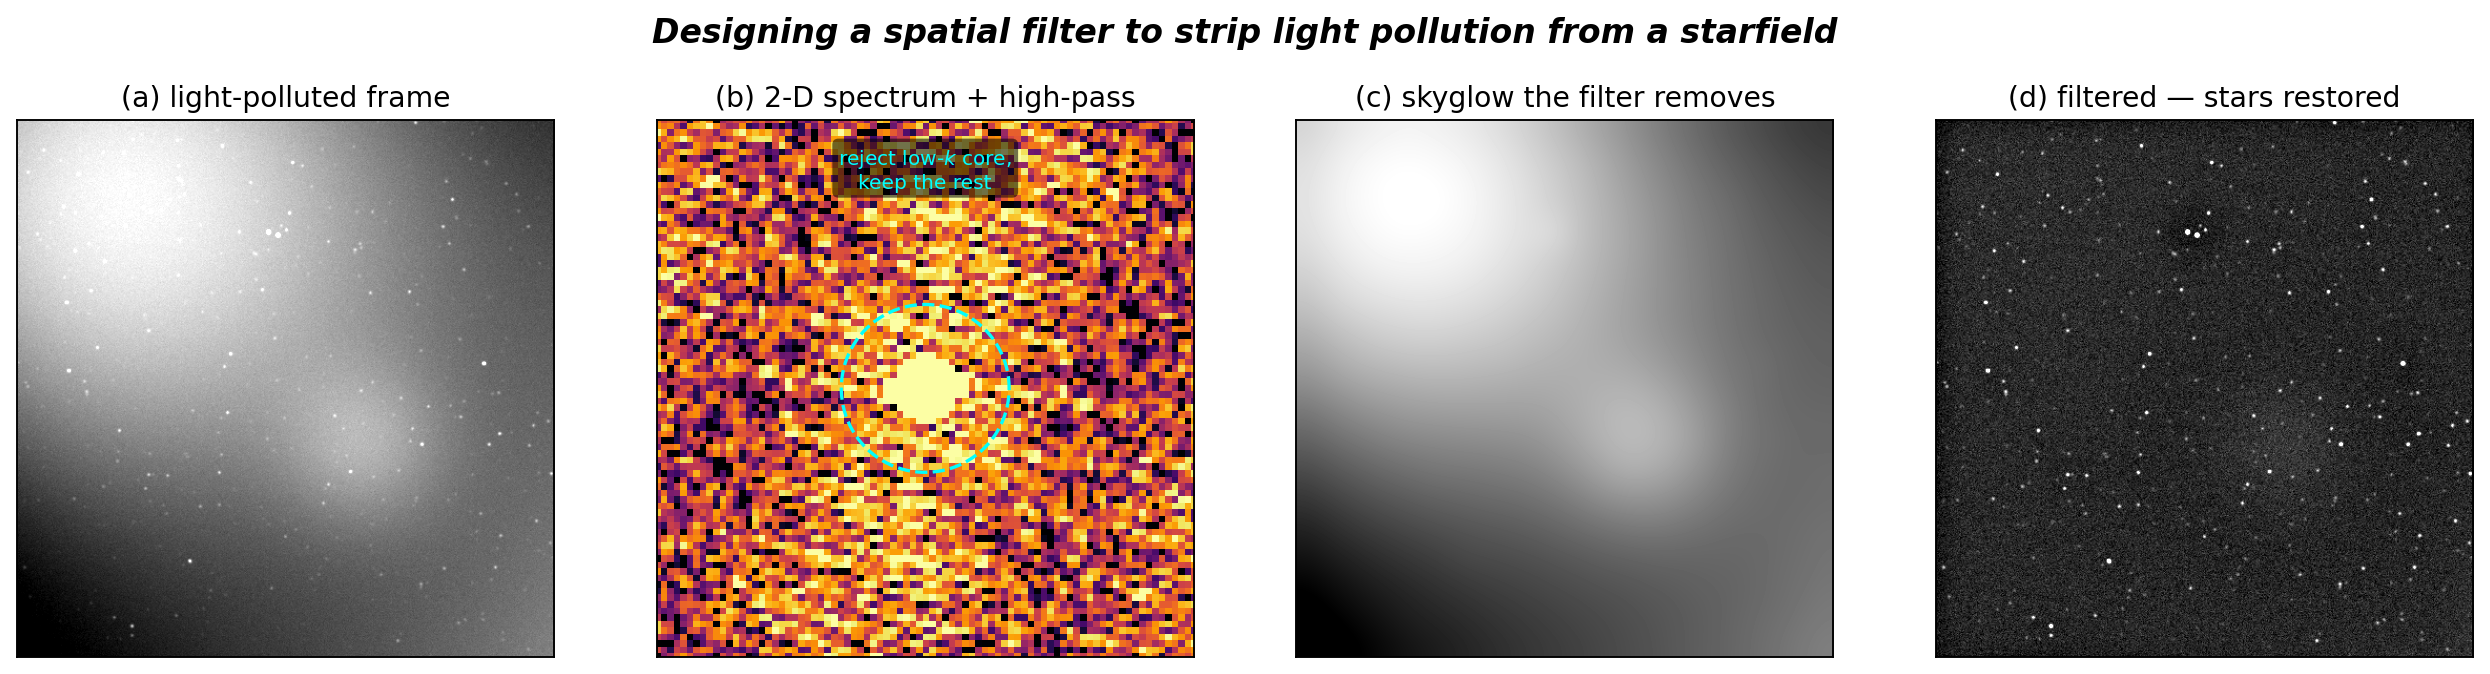
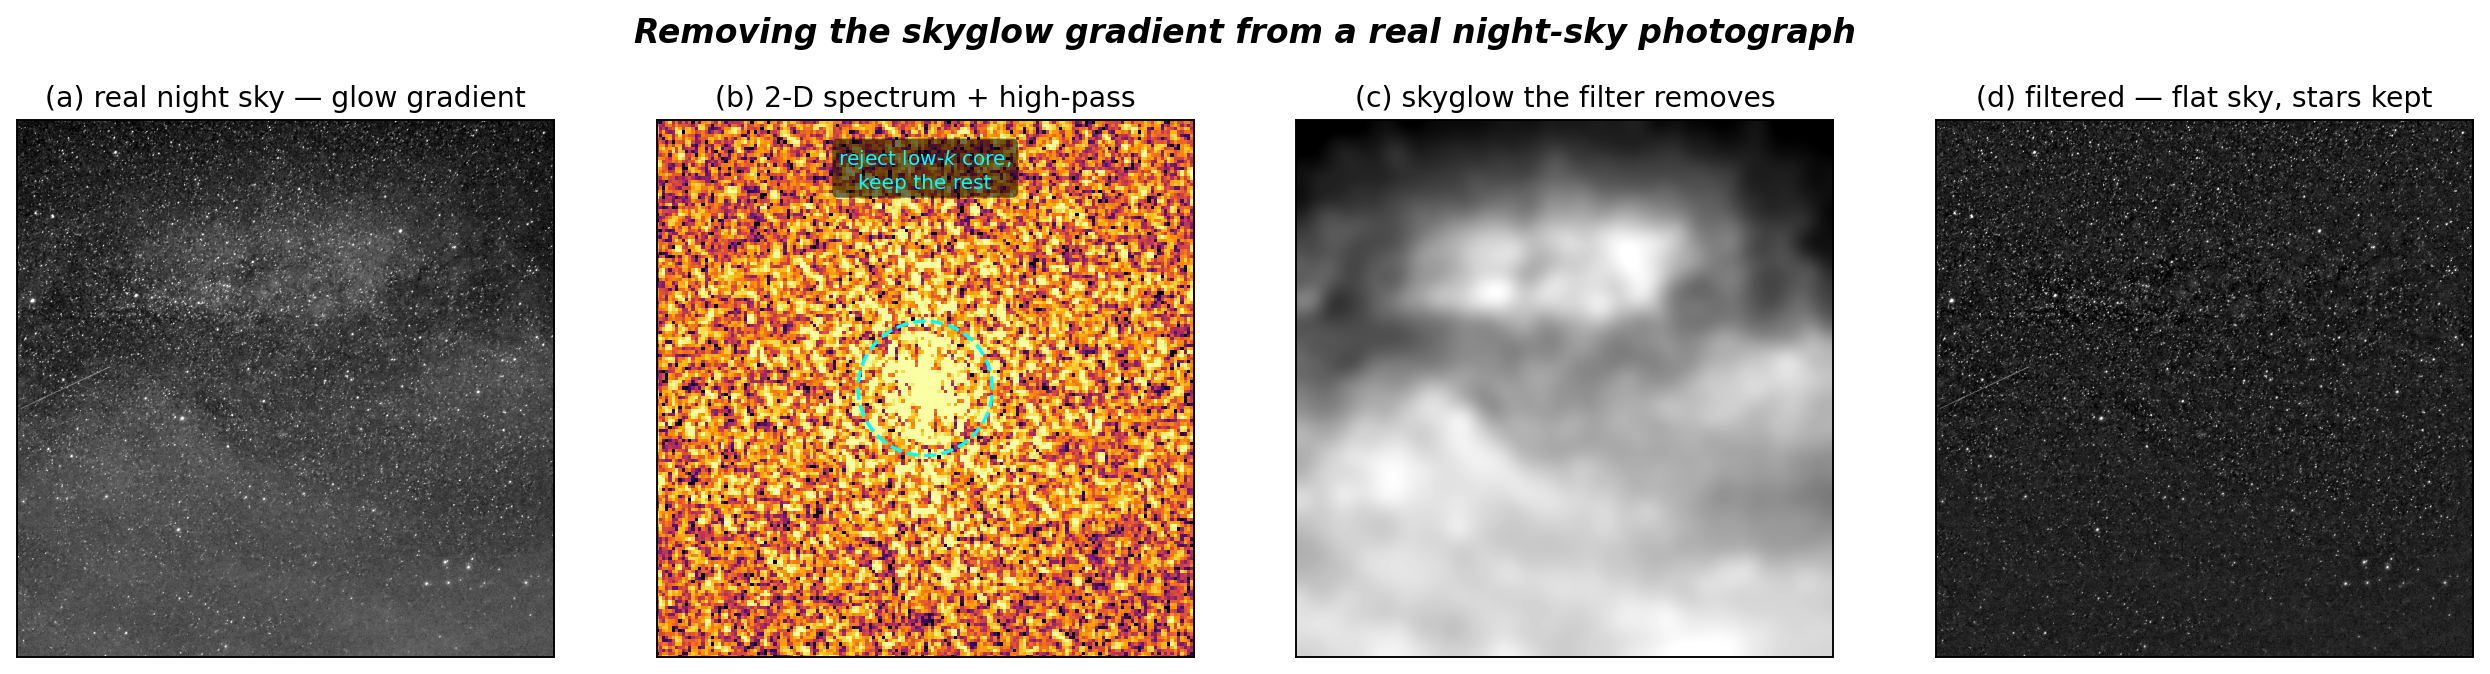
light pollution: switch to a real night-sky photograph
- Data is now "Night Sky Over the Maple Trees" (Mmfgh, Wikimedia
  Commons, CC BY 4.0), a real wide-field exposure over the Vermont
  Appalachians with a genuine horizon-glow gradient; sky-only crop,
  luminance channel, same reflect-padded 2-D Gaussian high-pass
- Coarse background brightness swing drops 0.19 -> 0.03 (six-fold)
- The honest-limit note is now demonstrated on real structure: the
  background model visibly swallows the Milky Way's diffuse light,
  which is why astrophotographers mask before fitting
- Page prose, code block, captions, attribution, and cover updated

Claude-Session: https://claude.ai/code/session_013g6Jis2ksDyqM4YC8tx1nv

diff --git a/docs/gallery/light_pollution.html b/docs/gallery/light_pollution.html
@@ -534,7 +534,8 @@ window.Quarto = {
 <hr>
 <section id="background" class="level2">
 <h2 class="anchored" data-anchor-id="background">Background</h2>
-<p>Anyone who has pointed a camera at the night sky from a city knows the problem: instead of a black background peppered with stars, you get a bright, uneven wash of orange <strong>skyglow</strong> — sunlight’s nighttime cousin, scattered back down by streetlights and haze. It swamps the faint stars and tilts the whole frame brighter on the side facing the city.</p>
+<p>Anyone who has pointed a camera at the night sky knows the problem: instead of a black background peppered with stars, the frame carries a bright, uneven wash of <strong>skyglow</strong> — streetlight scattered back down by haze, plus the atmosphere’s own airglow — brightest toward the horizon. It swamps the faint stars and tilts the whole frame.</p>
+<p>The data here is a <strong>real photograph</strong>: <a href="https://commons.wikimedia.org/wiki/File:Night_Sky_Over_the_Maple_Trees.jpg"><em>Night Sky Over the Maple Trees</em></a> (Mmfgh, Wikimedia Commons, CC BY 4.0), a wide-field exposure over the Vermont Appalachians. Even at this dark site, the horizon glow sweeps a strong brightness gradient across the bottom of the frame — the working example below is a tree-free sky crop, converted to luminance.</p>
 <p>The saving grace is that <strong>skyglow and stars occupy completely different spatial scales.</strong> Light pollution is a <em>smooth</em> gradient — it varies gently across the entire frame, so all of its energy sits at very <strong>low spatial frequencies</strong>. A star, by contrast, is a near-point source: a sharp spike a couple of pixels wide, which spreads its energy across <strong>high spatial frequencies</strong>. This is the two-dimensional version of the everyday filtering problem from <a href="../chap6.html">Chapter 6</a> — a slow drift riding under a fast signal — and the same tool applies: build a filter that keeps one frequency band and rejects the other.</p>
 </section>
 <section id="key-idea" class="level2">
@@ -551,17 +552,22 @@ window.Quarto = {
 <div class="code-copy-outer-scaffold"><div class="sourceCode" id="cb1"><pre class="sourceCode python code-with-copy"><code class="sourceCode python"><span id="cb1-1"><a href="#cb1-1" aria-hidden="true" tabindex="-1"></a><span class="im">import</span> numpy <span class="im">as</span> np</span>
 <span id="cb1-2"><a href="#cb1-2" aria-hidden="true" tabindex="-1"></a><span class="im">from</span> scipy.ndimage <span class="im">import</span> gaussian_filter</span>
 <span id="cb1-3"><a href="#cb1-3" aria-hidden="true" tabindex="-1"></a></span>
-<span id="cb1-4"><a href="#cb1-4" aria-hidden="true" tabindex="-1"></a><span class="co"># polluted = starfield  +  smooth skyglow gradient  +  noise   (a 512x512 frame)</span></span>
-<span id="cb1-5"><a href="#cb1-5" aria-hidden="true" tabindex="-1"></a>kc  <span class="op">=</span> <span class="fl">0.010</span>                                        <span class="co"># cutoff spatial frequency [cycles/pixel]</span></span>
-<span id="cb1-6"><a href="#cb1-6" aria-hidden="true" tabindex="-1"></a>pad <span class="op">=</span> polluted.shape[<span class="dv">0</span>] <span class="op">//</span> <span class="dv">2</span></span>
-<span id="cb1-7"><a href="#cb1-7" aria-hidden="true" tabindex="-1"></a></span>
-<span id="cb1-8"><a href="#cb1-8" aria-hidden="true" tabindex="-1"></a><span class="co"># reflect-pad so the periodic FFT sees no brightness jump at the edges (no ringing)</span></span>
-<span id="cb1-9"><a href="#cb1-9" aria-hidden="true" tabindex="-1"></a>P  <span class="op">=</span> np.pad(polluted, pad, mode<span class="op">=</span><span class="st">'reflect'</span>)<span class="op">;</span> M <span class="op">=</span> P.shape[<span class="dv">0</span>]</span>
-<span id="cb1-10"><a href="#cb1-10" aria-hidden="true" tabindex="-1"></a>kx <span class="op">=</span> np.fft.fftfreq(M)<span class="op">;</span> KX, KY <span class="op">=</span> np.meshgrid(kx, kx)</span>
-<span id="cb1-11"><a href="#cb1-11" aria-hidden="true" tabindex="-1"></a>lowpass <span class="op">=</span> np.exp(<span class="op">-</span>(KX<span class="op">**</span><span class="dv">2</span> <span class="op">+</span> KY<span class="op">**</span><span class="dv">2</span>) <span class="op">/</span> (<span class="dv">2</span> <span class="op">*</span> kc<span class="op">**</span><span class="dv">2</span>))   <span class="co"># smooth 2-D low-pass = background model</span></span>
+<span id="cb1-4"><a href="#cb1-4" aria-hidden="true" tabindex="-1"></a><span class="im">from</span> PIL <span class="im">import</span> Image</span>
+<span id="cb1-5"><a href="#cb1-5" aria-hidden="true" tabindex="-1"></a><span class="co"># real photo: "Night Sky Over the Maple Trees" (Mmfgh, Wikimedia Commons, CC BY 4.0)</span></span>
+<span id="cb1-6"><a href="#cb1-6" aria-hidden="true" tabindex="-1"></a>im <span class="op">=</span> Image.<span class="bu">open</span>(<span class="st">'Night_Sky_Over_the_Maple_Trees.jpg'</span>).convert(<span class="st">'L'</span>)</span>
+<span id="cb1-7"><a href="#cb1-7" aria-hidden="true" tabindex="-1"></a>polluted <span class="op">=</span> np.asarray(im.crop((<span class="dv">1350</span>, <span class="dv">100</span>, <span class="dv">3800</span>, <span class="dv">2550</span>))                <span class="co"># sky-only crop</span></span>
+<span id="cb1-8"><a href="#cb1-8" aria-hidden="true" tabindex="-1"></a>                        .resize((<span class="dv">1024</span>, <span class="dv">1024</span>), Image.LANCZOS), <span class="bu">float</span>) <span class="op">/</span> <span class="fl">255.0</span></span>
+<span id="cb1-9"><a href="#cb1-9" aria-hidden="true" tabindex="-1"></a></span>
+<span id="cb1-10"><a href="#cb1-10" aria-hidden="true" tabindex="-1"></a>kc  <span class="op">=</span> <span class="fl">0.008</span>                                        <span class="co"># cutoff spatial frequency [cycles/pixel]</span></span>
+<span id="cb1-11"><a href="#cb1-11" aria-hidden="true" tabindex="-1"></a>pad <span class="op">=</span> polluted.shape[<span class="dv">0</span>] <span class="op">//</span> <span class="dv">2</span></span>
 <span id="cb1-12"><a href="#cb1-12" aria-hidden="true" tabindex="-1"></a></span>
-<span id="cb1-13"><a href="#cb1-13" aria-hidden="true" tabindex="-1"></a>background <span class="op">=</span> np.real(np.fft.ifft2(np.fft.fft2(P) <span class="op">*</span> lowpass))[pad:<span class="op">-</span>pad, pad:<span class="op">-</span>pad]</span>
-<span id="cb1-14"><a href="#cb1-14" aria-hidden="true" tabindex="-1"></a>cleaned    <span class="op">=</span> polluted <span class="op">-</span> background                 <span class="co"># high-pass: skyglow removed, stars kept</span></span></code></pre></div><button title="Copy to Clipboard" class="code-copy-button"><i class="bi"></i></button></div>
+<span id="cb1-13"><a href="#cb1-13" aria-hidden="true" tabindex="-1"></a><span class="co"># reflect-pad so the periodic FFT sees no brightness jump at the edges (no ringing)</span></span>
+<span id="cb1-14"><a href="#cb1-14" aria-hidden="true" tabindex="-1"></a>P  <span class="op">=</span> np.pad(polluted, pad, mode<span class="op">=</span><span class="st">'reflect'</span>)<span class="op">;</span> M <span class="op">=</span> P.shape[<span class="dv">0</span>]</span>
+<span id="cb1-15"><a href="#cb1-15" aria-hidden="true" tabindex="-1"></a>kx <span class="op">=</span> np.fft.fftfreq(M)<span class="op">;</span> KX, KY <span class="op">=</span> np.meshgrid(kx, kx)</span>
+<span id="cb1-16"><a href="#cb1-16" aria-hidden="true" tabindex="-1"></a>lowpass <span class="op">=</span> np.exp(<span class="op">-</span>(KX<span class="op">**</span><span class="dv">2</span> <span class="op">+</span> KY<span class="op">**</span><span class="dv">2</span>) <span class="op">/</span> (<span class="dv">2</span> <span class="op">*</span> kc<span class="op">**</span><span class="dv">2</span>))   <span class="co"># smooth 2-D low-pass = background model</span></span>
+<span id="cb1-17"><a href="#cb1-17" aria-hidden="true" tabindex="-1"></a></span>
+<span id="cb1-18"><a href="#cb1-18" aria-hidden="true" tabindex="-1"></a>background <span class="op">=</span> np.real(np.fft.ifft2(np.fft.fft2(P) <span class="op">*</span> lowpass))[pad:<span class="op">-</span>pad, pad:<span class="op">-</span>pad]</span>
+<span id="cb1-19"><a href="#cb1-19" aria-hidden="true" tabindex="-1"></a>cleaned    <span class="op">=</span> polluted <span class="op">-</span> background                 <span class="co"># high-pass: skyglow removed, stars kept</span></span></code></pre></div><button title="Copy to Clipboard" class="code-copy-button"><i class="bi"></i></button></div>
 </section>
 <section id="result" class="level2">
 <h2 class="anchored" data-anchor-id="result">Result</h2>
@@ -569,12 +575,12 @@ window.Quarto = {
 <div class="quarto-figure quarto-figure-center">
 <figure class="figure">
 <p><img src="../Figure/figure_light_pollution.png" class="img-fluid figure-img"></p>
-<figcaption>Four panels. (a) A synthetic light-polluted frame: faint stars buried under a bright skyglow gradient from a city near one corner. (b) Its 2-D spatial-frequency spectrum (Hann-windowed for display) — the skyglow’s energy is concentrated in the bright low-k core inside the dashed circle, while star energy fills the rest of the plane. (c) The low-pass reconstruction of that core: the smooth skyglow the filter identifies and removes. (d) The high-pass result — the same stars on a flat, dark sky.</figcaption>
+<figcaption>Four panels. (a) The real night-sky crop: thousands of stars and the Milky Way band, riding on a glow gradient that brightens toward the horizon at the bottom. (b) Its 2-D spatial-frequency spectrum (Hann-windowed for display) — the glow’s energy is concentrated in the bright low-k core inside the dashed circle, while star energy fills the rest of the plane. (c) The low-pass reconstruction of that core: the smooth skyglow model the filter removes — note it has also absorbed the Milky Way’s large-scale luminosity. (d) The high-pass result — the same stars on a flat, dark sky.</figcaption>
 </figure>
 </div>
 </div>
-<p>Panel (b) is why this works at all: the light pollution collapses into the bright core at the centre of the frequency plane, cleanly separated from the star field that fills the rest. The Gaussian low-pass (dashed circle) scoops out just that core to build the <strong>skyglow model</strong> in panel (c) — a smooth surface that traces the city-glow gradient and its corner hotspot, with no stars in it. Subtracting it leaves panel (d): the background flattens (its standard deviation drops about five-fold here) and stars that were invisible under the glow now stand out against a dark sky.</p>
-<p>The example also shows the method’s honest limit. Genuinely <em>extended</em> structure — the faint patch of nebulosity in the lower-right — lives at low spatial frequencies too, so it is partly swept into the background model and dimmed along with the skyglow. That is the same trade-off a 1-D high-pass makes when a signal and its baseline drift overlap in frequency, and it is why astrophotographers reach for gentler cutoffs, masked background models, or wavelet-based tools when they want to preserve nebulosity. Choosing where to cut is the filter design.</p>
+<p>Panel (b) is why this works at all: the glow collapses into the bright core at the centre of the frequency plane, cleanly separated from the star field that fills the rest. The Gaussian low-pass (dashed circle) scoops out just that core to build the <strong>skyglow model</strong> in panel (c) — a smooth surface tracing the horizon glow, with no stars in it. Subtracting it leaves panel (d): the coarse background brightness swing drops from 0.19 to 0.03 (six-fold flatter), and the star field stands on a uniform dark sky from corner to corner.</p>
+<p>The real photo also demonstrates the method’s honest limit better than any synthetic test could. The <strong>Milky Way</strong> is genuinely <em>extended</em> structure — its cloud-like luminosity lives at the same low spatial frequencies as the glow, so panel (c) shows the background model swallowing it, and in panel (d) the galactic band survives only through its fine-grained star clouds while its diffuse light is dimmed. That is the same trade-off a 1-D high-pass makes when a signal and its baseline drift overlap in frequency, and it is exactly why astrophotographers reach for gentler cutoffs, masked background models (mask the Milky Way before fitting), or wavelet-based tools when they want to keep the nebulosity. Choosing where to cut is the filter design.</p>
 <hr>
 <p><em>See <a href="../chap6.html">Chapter 6</a> for FIR/IIR filter design, choosing a filter’s cutoff and order, and the artefacts of over-aggressive filtering.</em></p>
 
